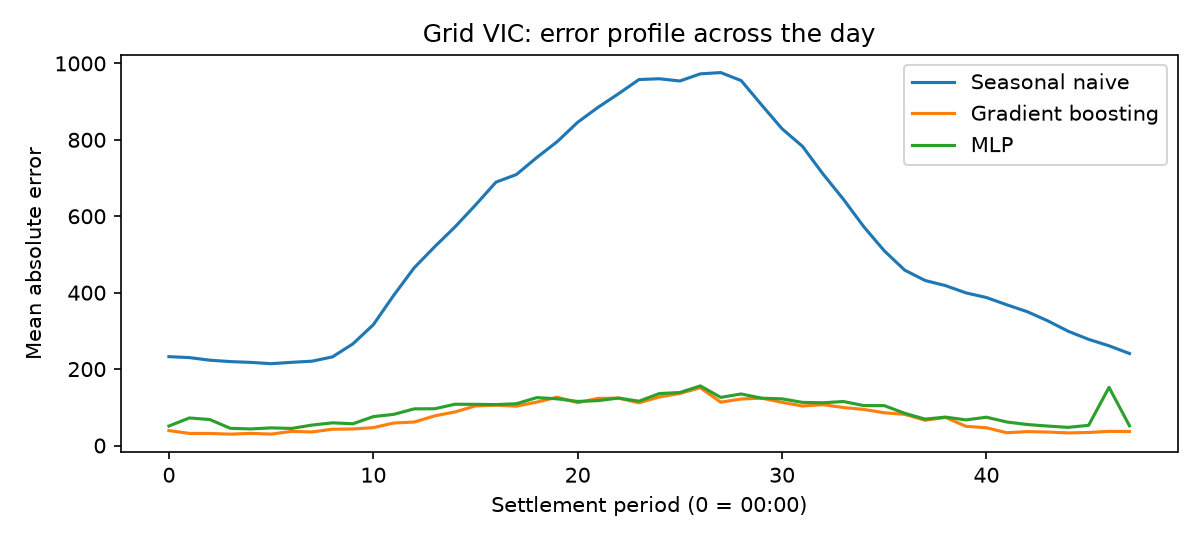
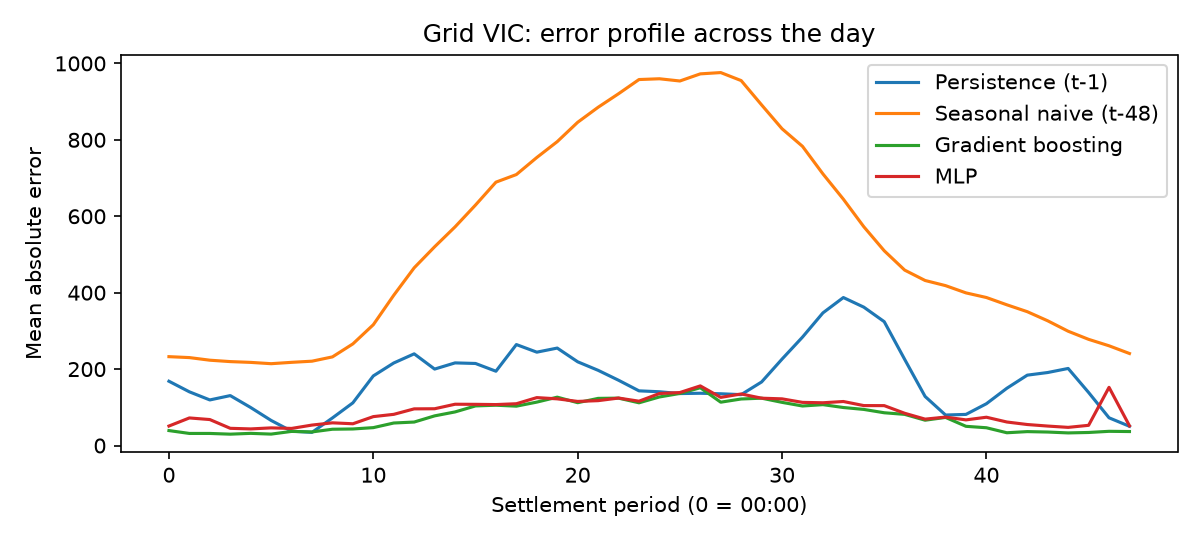
Add files via upload

diff --git a/results/metrics_table.tex b/results/metrics_table.tex
@@ -2,9 +2,11 @@
 \toprule
 model & MAE & RMSE & MAPE\_pct & peak\_MAE & imbalance\_\$\_per\_interval \\
 \midrule
-Grid VIC | Seasonal naive (t-48) & 535.939000 & 755.311000 & 13.034000 & NaN & NaN \\
-Grid VIC | Gradient boosting & 76.085000 & 112.178000 & 1.835000 & 82.291000 & 1323.200000 \\
-Grid VIC | MLP & 91.090000 & 124.717000 & 2.153000 & 91.366000 & 1851.027000 \\
+Grid VIC | Persistence (t-1) & 173.617000 & 221.750000 & 3.895000 & 241.965000 & 5623.927000 \\
+Grid VIC | Seasonal naive (t-48) & 535.939000 & 755.311000 & 13.034000 & 518.314000 & 14389.762000 \\
+Grid VIC | Gradient boosting & 76.085000 & 112.178000 & 1.835000 & 82.291000 & 2123.635000 \\
+Grid VIC | MLP & 91.090000 & 124.717000 & 2.153000 & 91.366000 & 2674.041000 \\
+Household | Persistence (t-1) & 0.347000 & 0.560000 & 40.307000 & NaN & NaN \\
 Household | Seasonal naive (t-48) & 0.590000 & 0.881000 & 77.517000 & NaN & NaN \\
 Household | Gradient boosting & 0.309000 & 0.478000 & 39.915000 & NaN & NaN \\
 Household | MLP & 0.323000 & 0.490000 & 41.501000 & NaN & NaN \\
